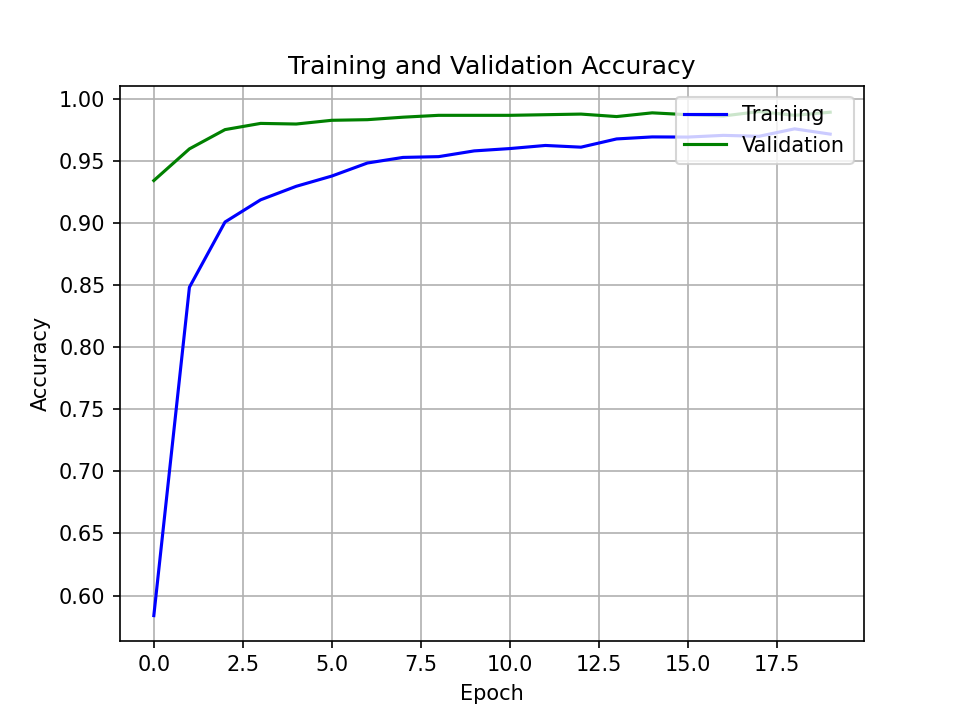
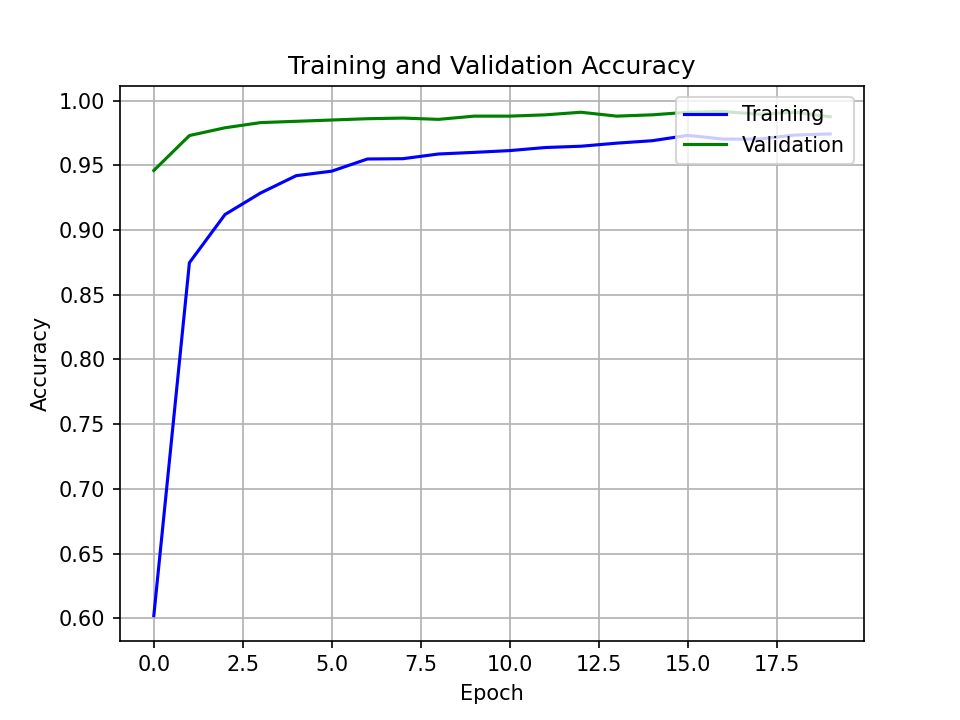
Find error in the initial lables, and fixed them with selftraining to create a final set of pseudo-labels.

diff --git a/app/src/helpers/label_correction.py b/app/src/helpers/label_correction.py
@@ -1,0 +1,116 @@
+import numpy as np
+
+from collections import Counter
+from sklearn.neighbors import NearestNeighbors
+from sklearn.linear_model import LogisticRegression
+from typing import Optional
+
+def correct_by_neighbors(
+    embeddings:np.ndarray,
+    labels:np.ndarray,
+    k:int = 15,
+    min_agreement:float = 0.6
+    ) -> np.ndarray:
+    """
+    It corrects the labels based on the labels with the minimum agreement and the k-nearest (euclideanly) neiboors.
+            Args:
+                embeddings:
+                    Feature matrix
+                labels: 
+                    Current labels that will be transformed.
+                k: 
+                    Number of neighboors to be considered excluding itself.
+                min_agreement: 
+                    Minimum fraction in which the neighboors shall agree.
+            Returns:
+                pseudo_labels_corrected:
+                    New array of corrected labels
+    """
+    nbrs = NearestNeighbors(
+        n_neighbors=k+1, 
+        metric='euclidean'
+        ).fit(embeddings)
+    _, indices = nbrs.kneighbors(embeddings) 
+
+    new_labels = labels.copy()
+    changes = 0
+
+    for i in range(len(labels)):
+        neighbor_indices = indices[i][1:]
+        neighbor_labels = labels[neighbor_indices]
+        counter = Counter(neighbor_labels)
+        most_common_label, count = counter.most_common(1)[0]
+        agreement = count / k
+
+        if agreement >= min_agreement and most_common_label != labels[i]:
+            new_labels[i] = most_common_label
+            changes += 1
+
+    print(f"Neighboors: {changes} changed labels (from {len(labels)})")
+    return new_labels
+
+
+def self_training(
+    embeddings:np.ndarray,
+    labels:np.ndarray,
+    clf: Optional[LogisticRegression]=None,
+    max_iter:int = 3,
+    threshold:float = 0.9,
+    )-> np.ndarray:
+    """
+    It is the process of iterative self_training to refine the labels using a classifier.
+            Args:
+                embeddings:
+                    Features matrix
+                labels:
+                    it is intended to be pseudo_labels_corrected to be modified.
+                clf:
+                    Classifier that is intended to be used, LogisticRegression is optional.
+                max_iter:
+                    Maximum number of iteration for self-training.
+                threshold:
+                    Trust threshold to accept a label. It must be a number in (0,1)
+            Returns: 
+                pseudo_labels_final:
+                    It returns a final version of pseudo-labels.
+    """
+    if clf is None:
+        clf = LogisticRegression(
+            max_iter=1000,
+            multi_class='multinomial',
+            solver='lbfgs'
+            )
+
+    current_labels = labels.copy()
+    total_changes = 0
+
+    for iteration in range(max_iter):
+        clf.fit(
+            embeddings,
+            current_labels
+            )
+        probs = clf.predict_proba(
+            embeddings
+            )
+        preds = clf.predict(
+            embeddings
+            )
+        max_probs = np.max(
+            probs,
+            axis=1
+            )
+        high_conf = max_probs > threshold
+        changes = (
+            preds != current_labels
+            ) & high_conf
+        current_labels[changes] = preds[changes]
+        n_changes = np.sum(changes)
+        total_changes += n_changes
+        print(f"Iteration {iteration+1}: {n_changes} changes")
+
+        if n_changes == 0:
+            break
+
+    print(f"Self‑training total: {total_changes} accumulated changes")
+    return current_labels
+

diff --git a/app/src/pipeline.py b/app/src/pipeline.py
@@ -3,10 +3,13 @@ from constants import (
     SEED_IMAGES,
     SEED_LABEL,
     TRAIN_IMAGES,
+    TRAIN_LABELS,
 )
 from helpers.clustering import get_kmeans_labels_and_visualize, assign_initial_labels_from_logistic_regression
 from helpers.embeddings import generation, projection_2d
+from helpers.label_correction import correct_by_neighbors, self_training
 from helpers.model import cnn_model
+from sklearn.metrics import accuracy_score
 
 
 history_model, initial_model = cnn_model(
@@ -37,3 +40,35 @@ pseudo_labels, cluster_to_class = assign_initial_labels_from_logistic_regression
     seed_labels = SEED_LABEL, # pyright: ignore[reportArgumentType]
     n_clusters=10
     )
+
+pseudo_labels_corrected = correct_by_neighbors(
+    train_embeddings,
+    pseudo_labels,
+    k=15, 
+    min_agreement=0.6
+    )
+
+# only informative
+acc_after_neighbors = accuracy_score(
+    TRAIN_LABELS,
+    pseudo_labels_corrected
+    )
+print(f"Accuracy after correcting by neighboors: {acc_after_neighbors:.4f}")
+
+pseudo_labels_final = self_training(
+    train_embeddings,
+    pseudo_labels_corrected,
+    max_iter=3,
+    threshold=0.9
+)
+
+acc_final = accuracy_score(
+    TRAIN_LABELS,
+    pseudo_labels_final
+    )
+print(f"\nCombined (final) accuracy: {acc_final:.4f}")
+
+print("\nSummary of corrections:")
+print(f"  - Initial labels:                        {accuracy_score(TRAIN_LABELS, pseudo_labels):.4f}")
+print(f"  - After neighboors:                      {acc_after_neighbors:.4f}")
+print(f"  - After self‑training (final accuracy):  {acc_final:.4f}")
